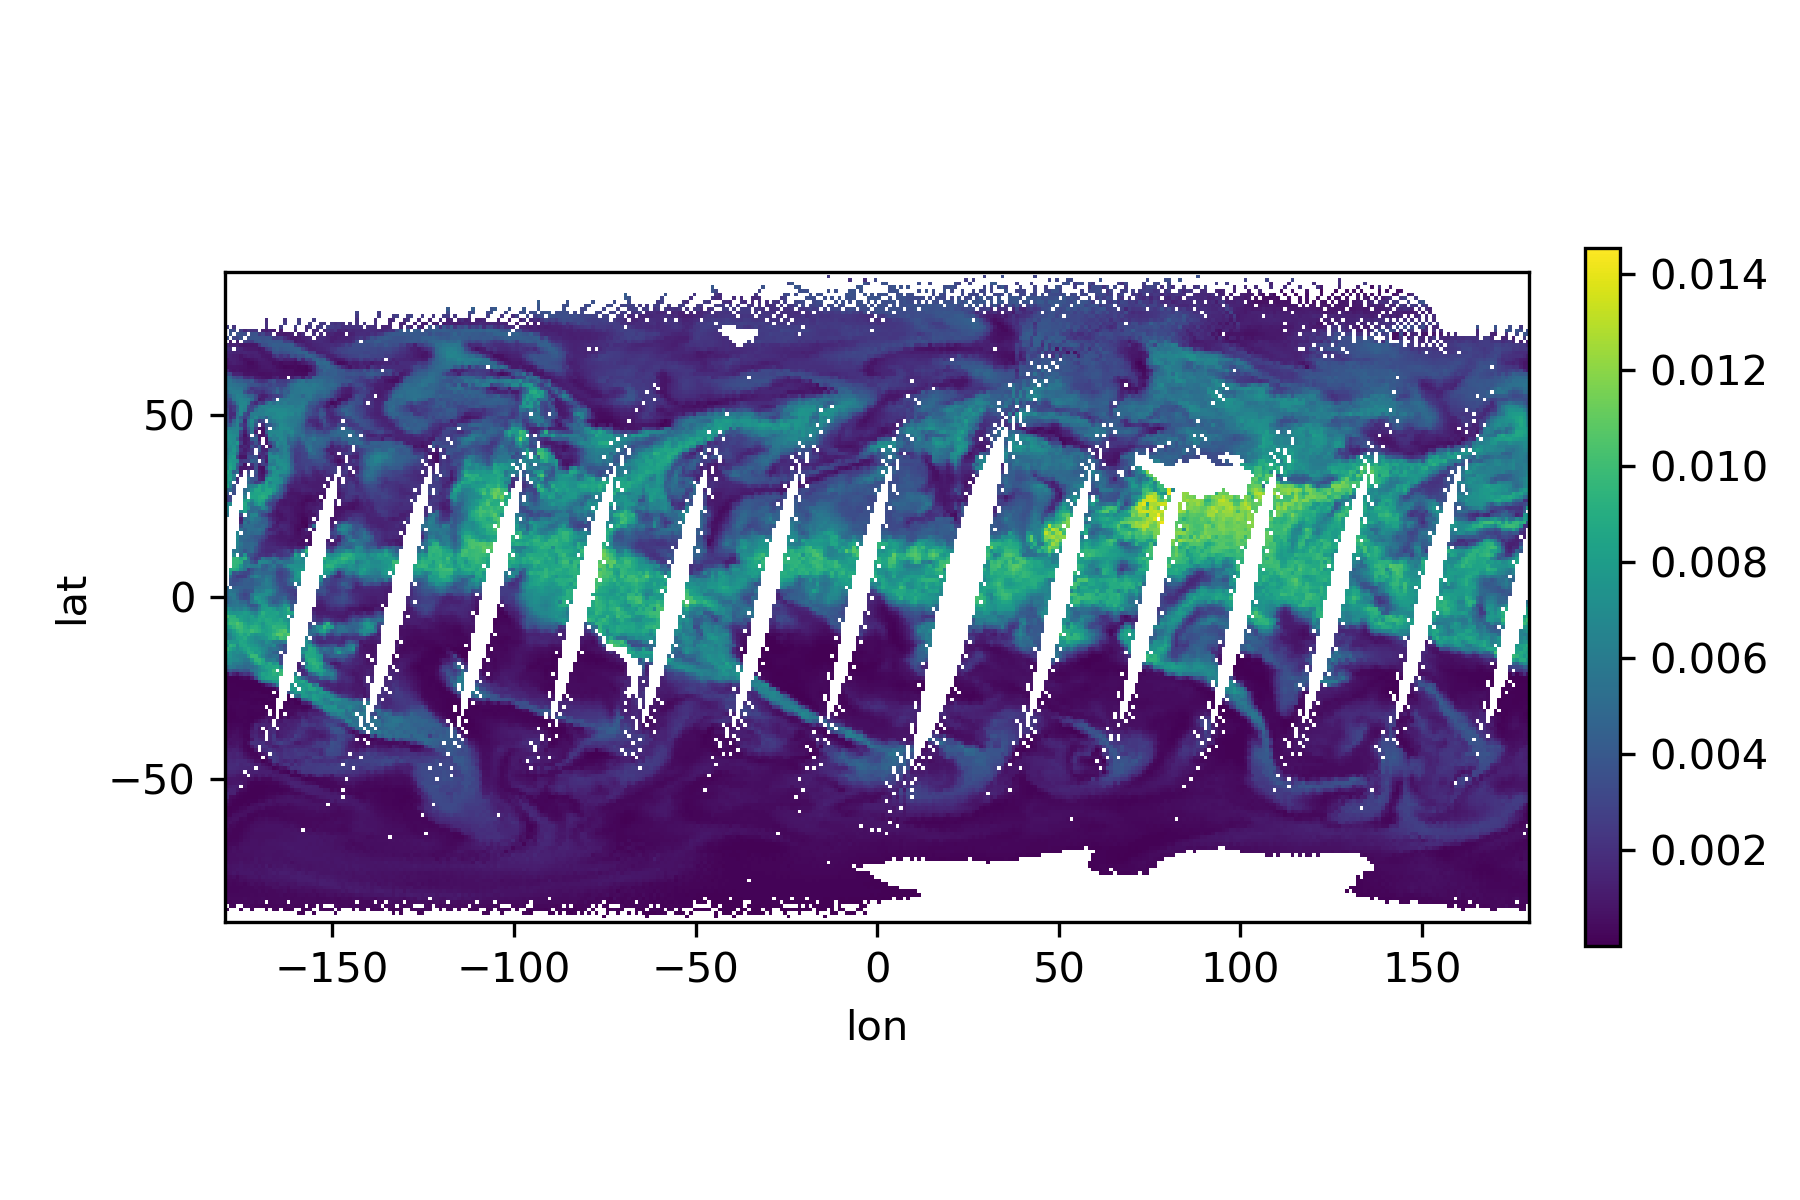
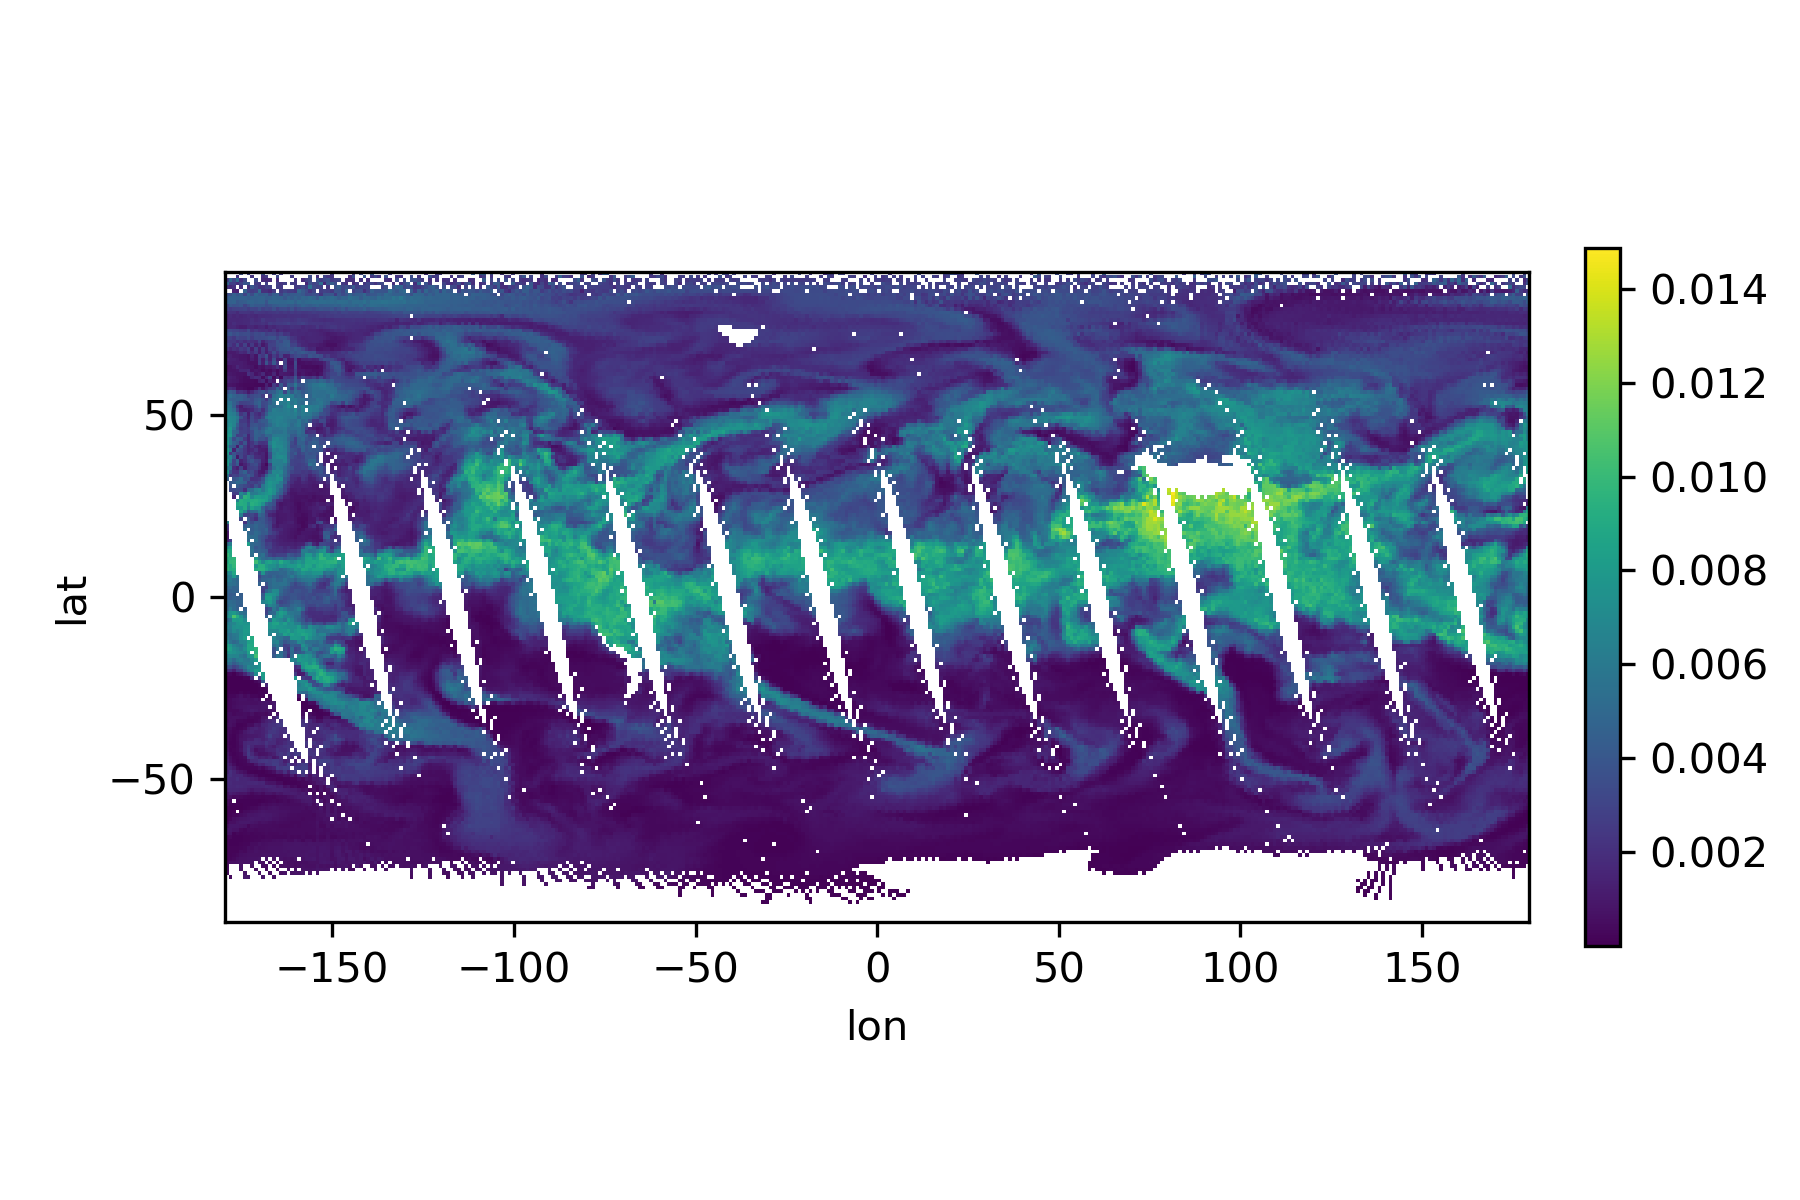
fixed swather

diff --git a/src/first_stage_amv.py b/src/first_stage_amv.py
@@ -39,8 +39,8 @@ def calc(frame0, frame):
     return flowx, flowy
  
 def frame_retreiver(ds):
-    frame= ds[LABEL].values        
-    frame[frame == 0] = np.nan
+    frame= np.squeeze(ds[LABEL].values)    
+    #frame[frame == 0] = np.nan
     frame=inpainter.drop_nan(frame)
     return frame
     
@@ -67,15 +67,15 @@ def ds_unit_calc(ds, day,pressure, time):
 
     df=ds.to_dataframe()
 
-    dhours=1      
+    dhours=60   
     mind=ds['obs_time'].min(skipna=True).values
-    hours=np.arange(dhours,5,dhours)
+    hours=np.arange(dhours,dhours*24,dhours)
     swathes=[]
 
-    swathes.append([mind, mind+np.timedelta64(dhours, 'h')])
+    swathes.append([mind, mind+np.timedelta64(dhours, 'm')])
     for hour in hours:
-        swathes.append([mind+np.timedelta64(hour, 'h'),
-                        mind+np.timedelta64(hour+dhours, 'h')])
+        swathes.append([mind+np.timedelta64(hour, 'm'),
+                        mind+np.timedelta64(hour+dhours, 'm')])
         
     for swath in swathes:
         ds_snpp=ds.loc[{'satellite':'snpp'}]
@@ -86,45 +86,59 @@ def ds_unit_calc(ds, day,pressure, time):
         print('end1:')
         print(end)
         ds_snpp=ds_snpp.where((ds_snpp.obs_time > start) & (ds_snpp.obs_time<end))
+        df_helper=ds_snpp.to_dataframe().dropna(subset=[LABEL])
+        ds_helper=xr.Dataset.from_dataframe(df_helper)
+
         start=start+np.timedelta64(50, 'm')
         end=end+np.timedelta64(50, 'm')
         print('end2:')
         print(end)
         
         ds_j1=ds_j1.where((ds_j1.obs_time > start) & (ds_j1.obs_time<end))
+      
+        #help1=ds_j1.latitude.isin(ds_helper.latitude.values)
+        #help2=ds_j1.longitude.isin(ds_helper.longitude.values)
+                                          
+        #ds_j1=ds_j1.where(help1 & help2)
+        #ds_j1=ds_j1.sel(latitude=ds_snpp['latitude'].values, longitude=ds_snpp[])
         condition1=xr.ufuncs.logical_not(xr.ufuncs.isnan(ds_j1['obs_time']))
         condition2=xr.ufuncs.logical_not(xr.ufuncs.isnan(ds_snpp['obs_time']))
         ds_j1_unit=ds_j1['specific_humidity_mean'].where(condition1 & condition2)
         ds_snpp_unit=ds_snpp['specific_humidity_mean'].where(condition1 & condition2)
         df_j1=ds_j1_unit.to_dataframe().dropna(subset=[LABEL]).set_index('satellite',append=True)
         df_snpp=ds_snpp_unit.to_dataframe().dropna(subset=[LABEL]).set_index('satellite',append=True)
+       
         ds_j1=xr.Dataset.from_dataframe(df_j1)
         ds_snpp=xr.Dataset.from_dataframe(df_snpp)
-        frame0=frame_retreiver(ds_snpp)
-        frame=frame_retreiver(ds_j1)
-        print(ds_j1)
-        print(ds_snpp)
-        flowx,flowy=calc(frame0, frame)
-        flowx = np.expand_dims(flowx, axis=2)
-        flowy = np.expand_dims(flowy, axis=2)
-        ds_snpp['flowx']=(['latitude','longitude','satellite'],flowx)
-        ds_snpp['flowy']=(['latitude','longitude','satellite'],flowy)
-        ds_j1['flowx']=(['latitude','longitude','satellite'],flowx)
-        ds_j1['flowy']=(['latitude','longitude','satellite'],flowy) 
+        ds_merged=xr.merge([ds_j1,ds_snpp])
+        if (ds_snpp['specific_humidity_mean'].values.shape[0]>0) & (
+                ds_j1['specific_humidity_mean'].values.shape[0]>0):
+                    
+            ds_snpp=ds_merged.loc[{'satellite':'snpp'}].expand_dims('satellite')
+            ds_j1=ds_merged.loc[{'satellite':'j1'}].expand_dims('satellite')
+            frame0=frame_retreiver(ds_snpp)
+            frame=frame_retreiver(ds_j1)
+            flowx,flowy=calc(frame0, frame)
+            flowx = np.expand_dims(flowx, axis=2)
+            flowy = np.expand_dims(flowy, axis=2)
+            ds_snpp['flowx']=(['latitude','longitude','satellite'],flowx)
+            ds_snpp['flowy']=(['latitude','longitude','satellite'],flowy)
+            ds_j1['flowx']=(['latitude','longitude','satellite'],flowx)
+            ds_j1['flowy']=(['latitude','longitude','satellite'],flowy) 
+            
+            df_j1=ds_j1.to_dataframe().dropna()
+            df_snpp=ds_snpp.to_dataframe().dropna()
         
-        df_j1=ds_j1.to_dataframe()
-        df_snpp=ds_snpp.to_dataframe()
-        
-        swathi=df_snpp.index.values 
-        df['humidity_overlap'].loc[df.index.isin(swathi)]=df_snpp['specific_humidity_mean']
-        df['flowx'].loc[df.index.isin(swathi)]=df_snpp['flowx']
-        df['flowy'].loc[df.index.isin(swathi)]=df_snpp['flowy']
-
-        swathi=df_j1.index.values 
-        #print(swathi)
-        df['humidity_overlap'].loc[df.index.isin(swathi)]=df_j1['specific_humidity_mean']
-        df['flowx'].loc[df.index.isin(swathi)]=df_j1['flowx']
-        df['flowy'].loc[df.index.isin(swathi)]=df_j1['flowy']
+            swathi=df_snpp.index.values 
+            df['humidity_overlap'].loc[df.index.isin(swathi)]=df_snpp['specific_humidity_mean']
+            df['flowx'].loc[df.index.isin(swathi)]=df_snpp['flowx']
+            df['flowy'].loc[df.index.isin(swathi)]=df_snpp['flowy']
+    
+            swathi=df_j1.index.values 
+            #print(swathi)
+            df['humidity_overlap'].loc[df.index.isin(swathi)]=df_j1['specific_humidity_mean']
+            df['flowx'].loc[df.index.isin(swathi)]=df_j1['flowx']
+            df['flowy'].loc[df.index.isin(swathi)]=df_j1['flowy']
         
         
 

diff --git a/src/plotter.py b/src/plotter.py
@@ -35,15 +35,15 @@ def main():
     ds=xr.open_dataset('../data/processed/real_water_vapor_noqc_test2.nc')
     print(ds)
     #print(ds)
-    ds_map=ds.loc[{'day':datetime(2020,7,3),'plev':706.6,'time':'am','satellite':'snpp'}]
+    ds_map=ds.loc[{'day':datetime(2020,7,3),'plev':706.6,'time':'pm','satellite':'snpp'}]
     mind=ds_map['obs_time'].min(skipna=True).values
     #print(mind)
-    timedelta=mind+np.timedelta64(2, 'h')
-    #ds_map=ds_map.where((ds_map.obs_time>mind) & (ds_map.obs_time<timedelta))
+    timedelta=mind+np.timedelta64(1, 'h')
+    ds_map=ds_map.where((ds_map.obs_time>mind) & (ds_map.obs_time<timedelta))
     map_plotter(ds_map, 'snpp_o', 'humidity_overlap', ' ', 0, 0.014)
     map_plotter(ds_map, 'snpp', 'specific_humidity_mean', ' ', 0, 0.014)
     
-    ds_map=ds.loc[{'day':datetime(2020,7,3),'plev':706.6,'time':'am','satellite':'j1'}]
+    ds_map=ds.loc[{'day':datetime(2020,7,3),'plev':706.6,'time':'pm','satellite':'j1'}]
     
     timedelta=mind+np.timedelta64(2, 'h')
     #ds_map=ds_map.where((ds_map.obs_time>mind) & (ds_map.obs_time<timedelta))

diff --git a/src/quiver.py b/src/quiver.py
@@ -28,7 +28,7 @@ def quiver_plot(ds, title):
     
 ds=xr.open_dataset('../data/processed/real_water_vapor_noqc_test2.nc')
 print(ds)
-ds_map=ds.loc[{'day':datetime(2020,7,3),'plev':slice(706,707),'time':'pm','satellite':'snpp'}]
+ds_map=ds.loc[{'day':datetime(2020,7,3),'plev':slice(706,707),'time':'am','satellite':'snpp'}]
 ds_map = ds_map.coarsen(longitude=10, boundary='trim').mean().coarsen(
             latitude=10, boundary='trim').mean()
 quiver_plot(ds_map, 'test')
